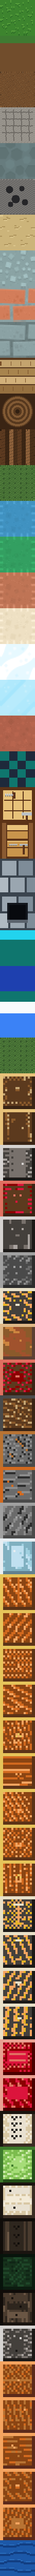
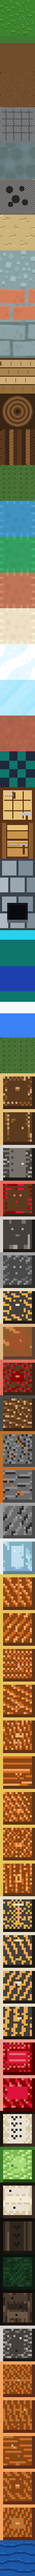
fix(bloxbert): classic stone cool grey (#6F7275) with cool cracks, not brown

Changed region(s): [[0.0, 0.0312, 1.0, 0.0625]]

diff --git a/bloxbert-src/tools/gen64.py b/bloxbert-src/tools/gen64.py
@@ -706,10 +706,10 @@ def draw_stone(px, mystical):
         vein = (46, 120, 116)
         crack = (52, 46, 64)
     else:
-        # Base stays light so the darker cracks still read after a 2x2 average.
-        fill_noise(px, [(168, 164, 156), (150, 146, 138), (184, 180, 172), (136, 132, 124)], 6)
+        # 2.5.550: cool mid-grey stone (spec #7A7D80, tones #6A6D70-#8E9194), cool cracks, not brown.
+        fill_noise(px, [(122, 125, 128), (110, 113, 116), (142, 145, 148), (116, 119, 122)], 6)
         vein = None
-        crack = (78, 74, 70)
+        crack = (68, 71, 75)
     for y0 in range(6, 58, 13):
         yy = y0
         for x in range(2, 62):
